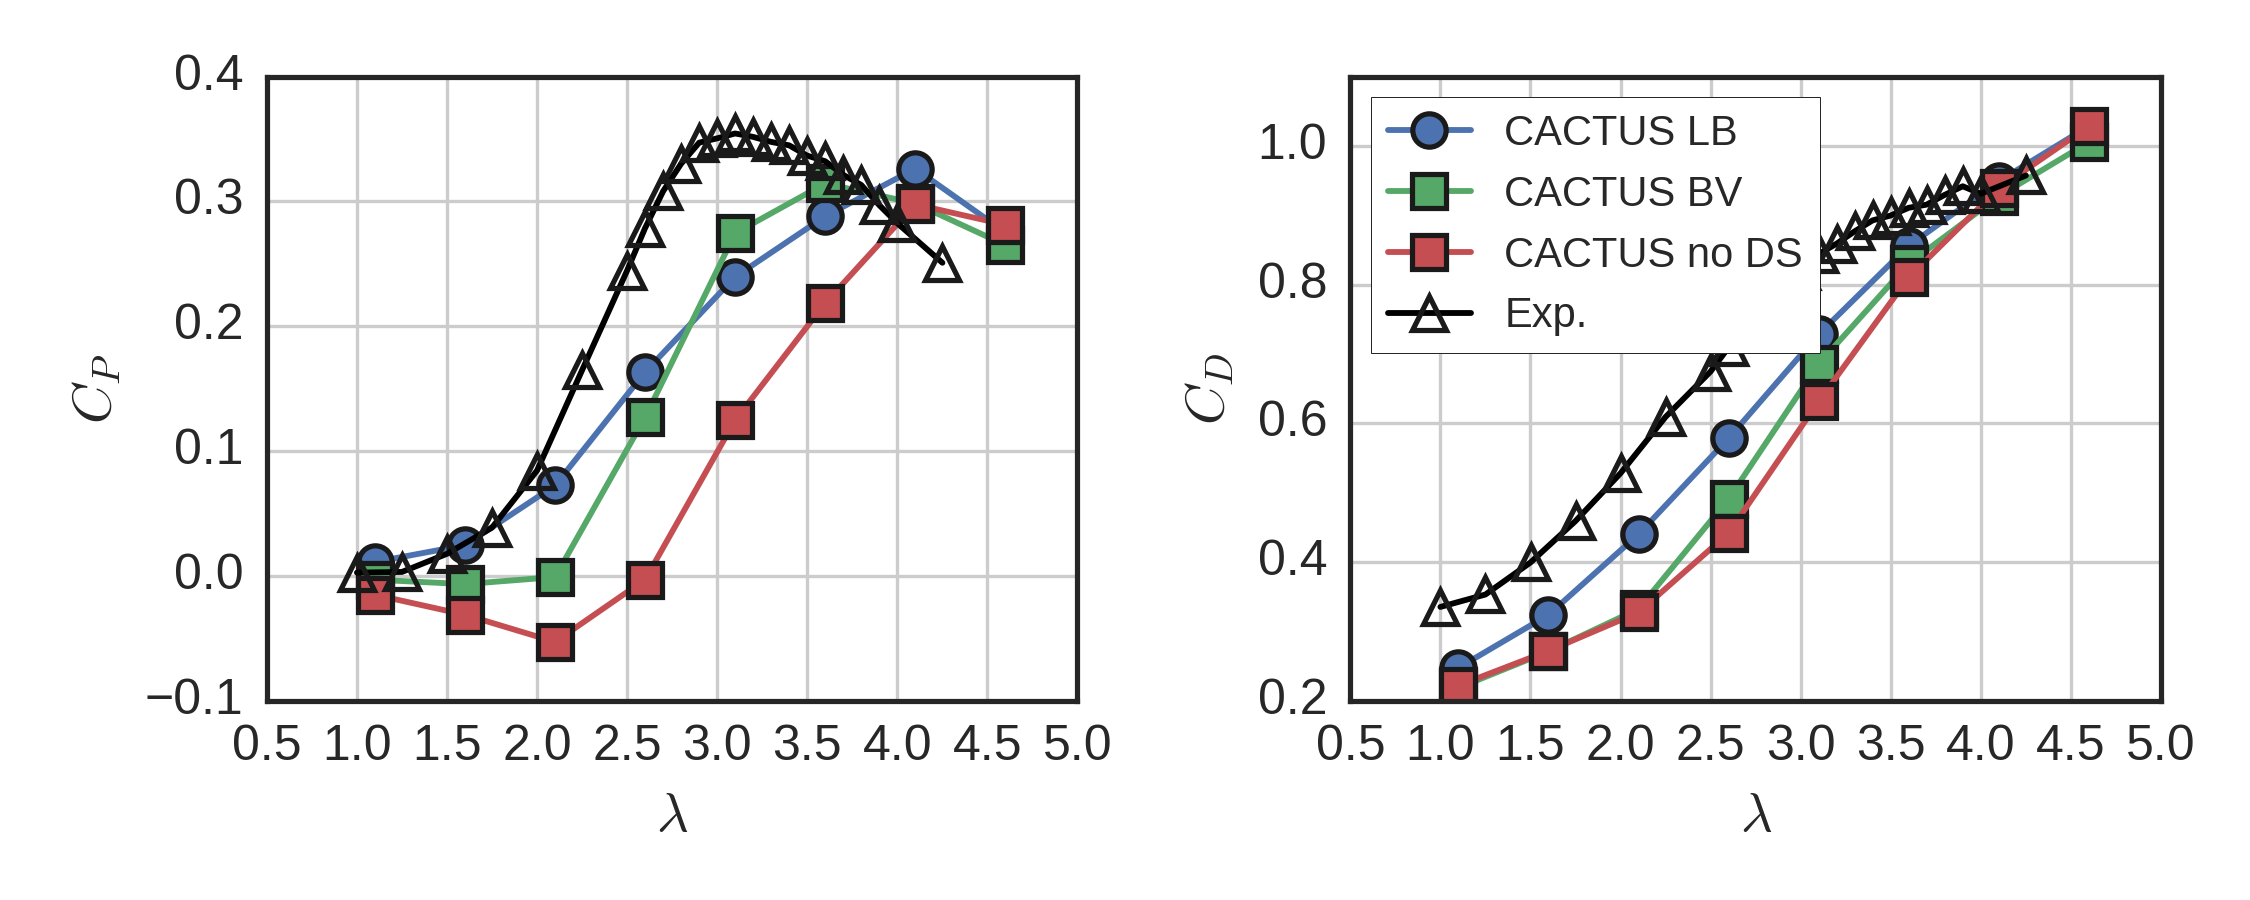
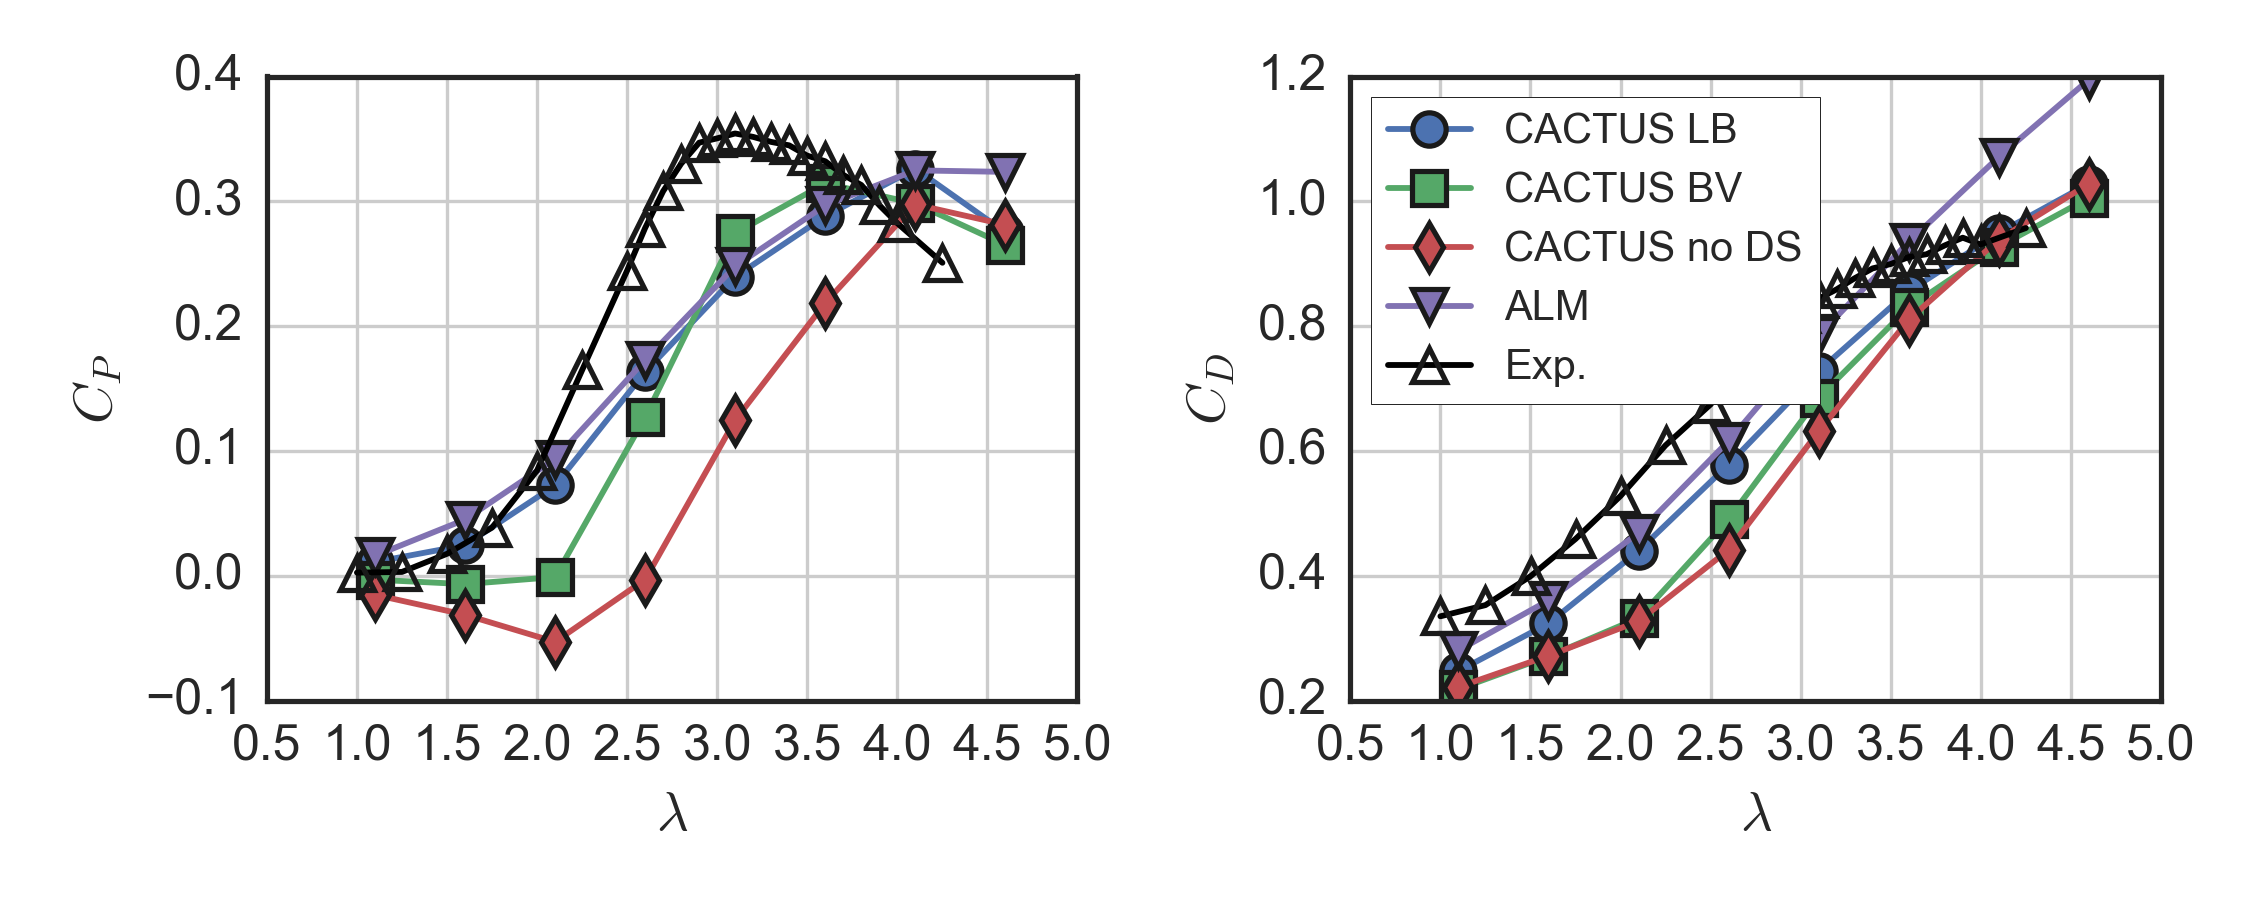
Plot ALM perf curves; resolves #18

diff --git a/plot.py b/plot.py
@@ -123,7 +123,7 @@ def plot_perf(print_perf=True, save=False):
         fig.savefig("figures/perf.png", dpi=300)
 
 
-def plot_perf_curves(exp=False, single_ds=False, save=False):
+def plot_perf_curves(exp=False, single_ds=False, alm=True, save=False):
     """Plot performance curves.
 
     Parameters
@@ -145,8 +145,14 @@ def plot_perf_curves(exp=False, single_ds=False, save=False):
             ax[1].plot(df.tsr, df.cd, marker="s", label="CACTUS BV")
         if os.path.isfile("processed/tsr_sweep_no_ds.csv"):
             df = pd.read_csv("processed/tsr_sweep_no_ds.csv")
-            ax[0].plot(df.tsr, df.cp, marker="s", label="CACTUS no DS")
-            ax[1].plot(df.tsr, df.cd, marker="s", label="CACTUS no DS")
+            ax[0].plot(df.tsr, df.cp, marker="d", label="CACTUS no DS")
+            ax[1].plot(df.tsr, df.cd, marker="d", label="CACTUS no DS")
+    if alm:
+        df_alm = pd.read_csv("https://raw.githubusercontent.com/"
+                             "petebachant/RM2-turbinesFoam/master/processed/"
+                             "tsr_sweep.csv")
+        ax[0].plot(df_alm.tsr, df_alm.cp, marker="v", label="ALM")
+        ax[1].plot(df_alm.tsr, df_alm.cd, marker="v", label="ALM")
     if exp:
         df_exp = pd.read_csv("https://raw.githubusercontent.com/UNH-CORE/"
                              "RM2-tow-tank/master/Data/Processed/Perf-1.0.csv")
@@ -159,7 +165,7 @@ def plot_perf_curves(exp=False, single_ds=False, save=False):
                    markerfacecolor="none", color="black", label="Exp.")
         ax[1].plot(df_exp.mean_tsr, df_exp.mean_cd, marker="^",
                    markerfacecolor="none", color="black", label="Exp.")
-    if exp or not single_ds:
+    if exp or not single_ds or alm:
         ax[1].legend(loc="upper left")
     fig.tight_layout()
     if save:
@@ -321,6 +327,8 @@ if __name__ == "__main__":
     parser.add_argument("--single-ds", "-d", default=False, action="store_true",
                         help="Plot perf curves for LB dynamic stall model "
                         "only")
+    parser.add_argument("--no-alm", default=False, action="store_true",
+                        help="Do not plot ALM results")
     parser.add_argument("--all", "-A", help="Generate all figures",
                         default=False, action="store_true")
     parser.add_argument("--save", "-s", help="Save to `figures` directory",
@@ -337,10 +345,12 @@ if __name__ == "__main__":
 
     if "perf" in args.plot and not args.all:
         plot_perf(save=args.save)
-    if "perf-curves" in args.plot or args.all:
-        plot_perf_curves(exp=False, single_ds=args.single_ds, save=args.save)
+    if "perf-curves" in args.plot:
+        plot_perf_curves(exp=False, single_ds=args.single_ds,
+                         alm=not args.no_alm, save=args.save)
     if "perf-curves-exp" in args.plot or args.all:
-        plot_perf_curves(exp=True, single_ds=args.single_ds, save=args.save)
+        plot_perf_curves(exp=True, single_ds=args.single_ds,
+                         alm=not args.no_alm, save=args.save)
     if "re-dep" in args.plot or args.all:
         with plt.rc_context(rc={"axes.formatter.use_mathtext": True}):
             plot_perf_re_dep(save=args.save)
